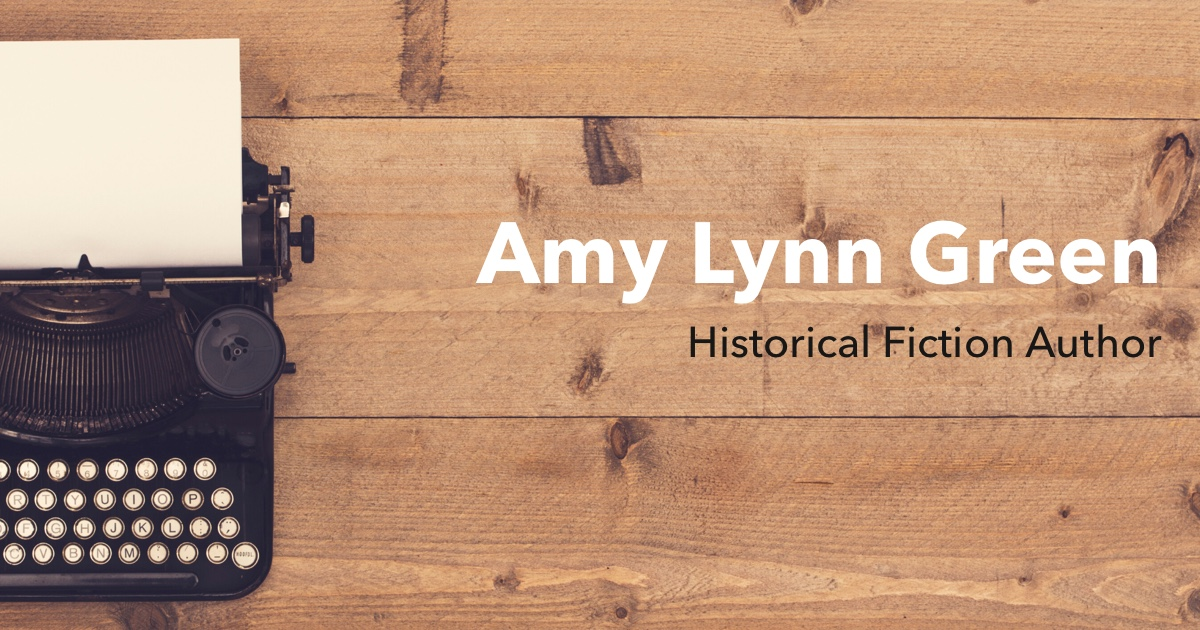
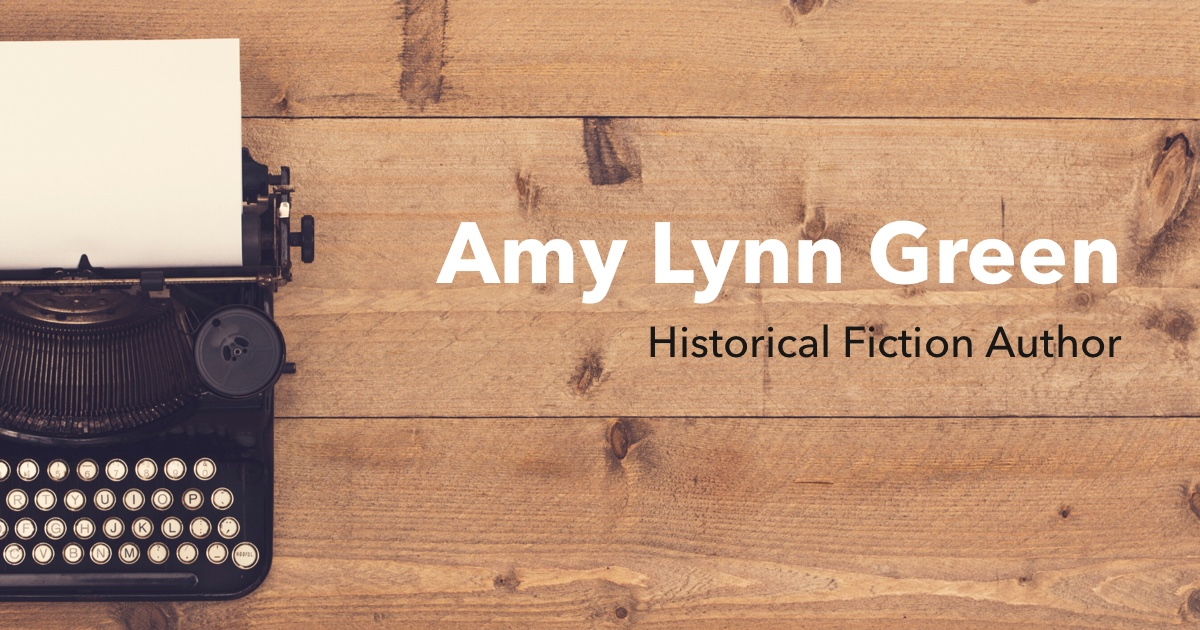
Tweaks to the og:image

Changed region(s): [[0.3392, 0.3317, 0.9867, 0.4825], [0.5242, 0.5127, 0.9867, 0.573]]

diff --git a/README.md b/README.md
@@ -1,23 +1,8 @@
-# Hugo template for Netlify CMS with Netlify Identity
+# Personal Website for Amy Lynn Green
 
-This is a small business template built with [Victor Hugo](https://github.com/netlify/victor-hugo) and [Netlify CMS](https://github.com/netlify/netlify-cms), designed and developed by [Darin Dimitroff](http://www.darindimitroff.com/), [spacefarm.digital](https://www.spacefarm.digital).
+[![Netlify Status](https://api.netlify.com/api/v1/badges/8faf3a00-4f91-47ab-af4e-ea426dd8c45e/deploy-status)](https://app.netlify.com/sites/amygreenbooks/deploys)
 
-## Getting started
-
-Use our deploy button to get your own copy of the repository. 
-
-[![Deploy to Netlify](https://www.netlify.com/img/deploy/button.svg)](https://app.netlify.com/start/deploy?repository=https://github.com/netlify-templates/one-click-hugo-cms&stack=cms)
-
-This will setup everything needed for running the CMS:
-
-* A new repository in your GitHub account with the code
-* Full Continuous Deployment to Netlify's global CDN network
-* Control users and access with Netlify Identity
-* Manage content with Netlify CMS
-
-Once the initial build finishes, you can invite yourself as a user. Go to the Identity tab in your new site, click "Invite" and send yourself an invite.
-
-Now you're all set, and you can start editing content!
+This project represents the personal website of Amy Lynn Green. You can check it out here at [https://www.amygreenbooks.com/](https://www.amygreenbooks.com/)
 
 ## Local Development
 
@@ -27,7 +12,7 @@ Then start the development server with `yarn start` or `npm start`.
 
 ## Layouts
 
-The template is based on small, content-agnostic partials that can be mixed and matched. The pre-built pages showcase just a few of the possible combinations. Refer to the `site/layouts/partials` folder for all available partials.
+The website is based on small, content-agnostic partials that can be mixed and matched. The pre-built pages showcase just a few of the possible combinations. Refer to the `site/layouts/partials` folder for all available partials.
 
 Use Hugo’s `dict` functionality to feed content into partials and avoid repeating yourself and creating discrepancies.
 
